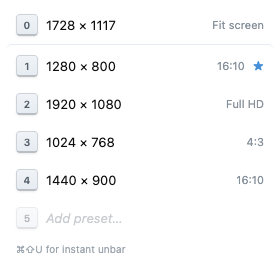
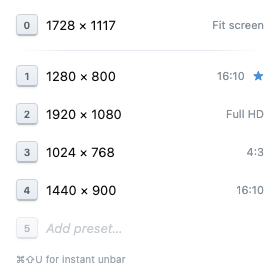
Add hero image to README, update popup screenshots

diff --git a/README.md b/README.md
@@ -2,6 +2,8 @@
 
 **Pop the current tab into a clean window — no address bar, no tabs.**
 
+<img src="store/screenshot-readme.png" alt="Before and after: browser chrome removed" width="640">
+
 Unbar moves your active Chrome tab into a minimal popup window with no address bar, tab strip, or bookmarks bar. The page doesn't reload, so scroll position, form input, and JavaScript state are all preserved — it's the same tab, just in a cleaner frame.
 
 Built originally to give [Inspire.js](https://inspirejs.org) presentations a distraction-free presenter/projector window, but it works on any page.